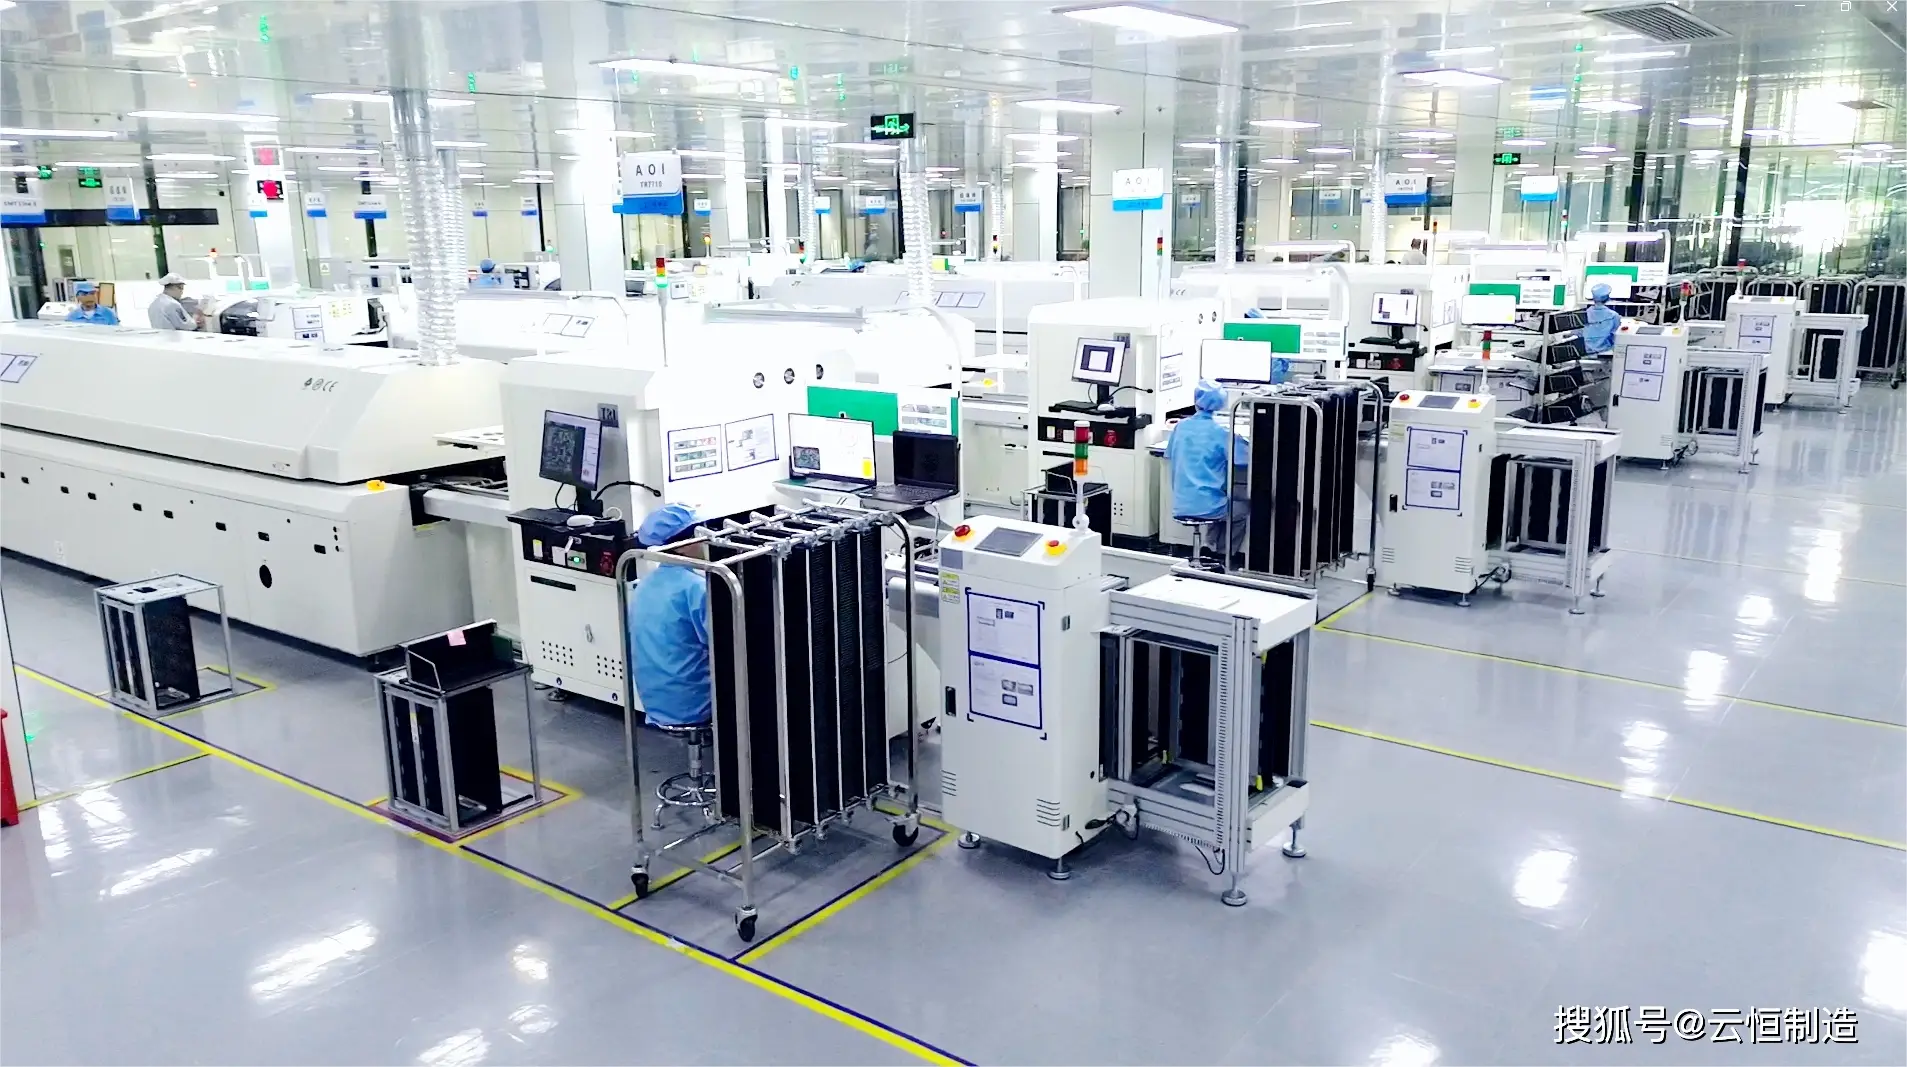
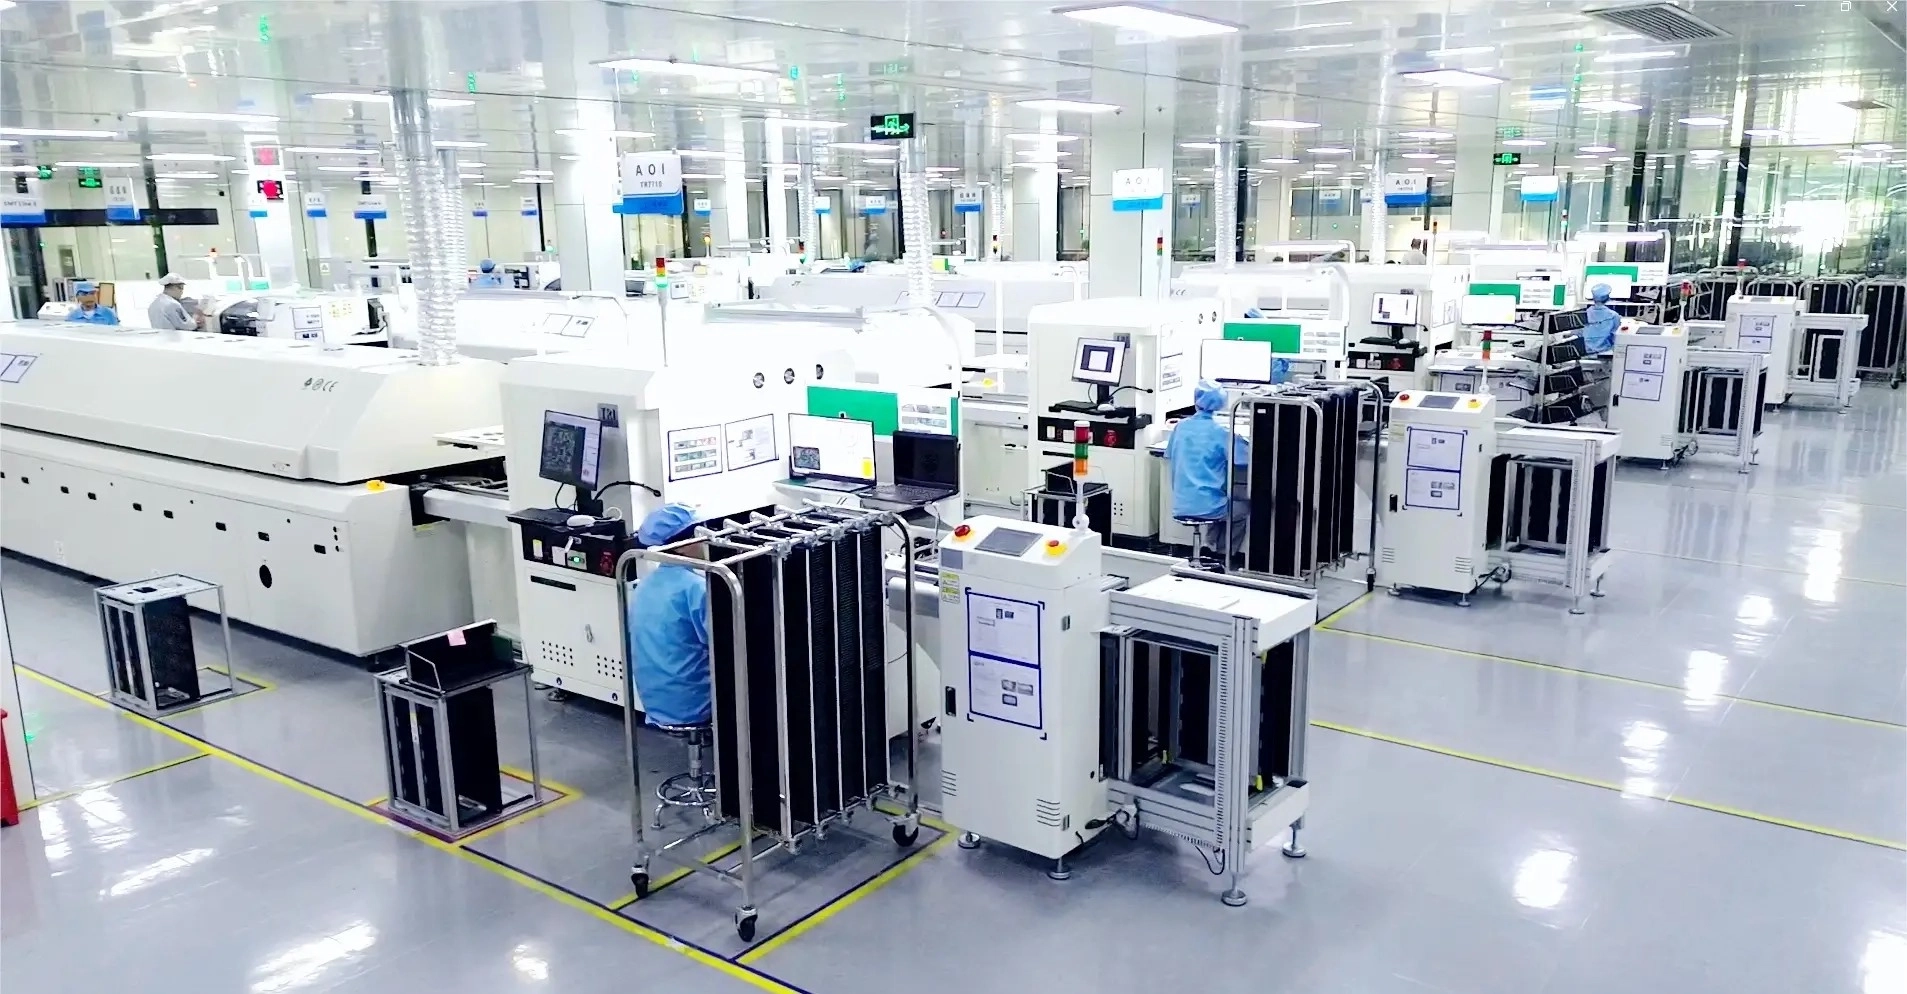
Webp

diff --git a/public/index.html b/public/index.html
@@ -324,7 +324,7 @@
         <div class="row gy-3">
 
           <div class="col-lg-6" data-aos="fade-up" data-aos-delay="100">
-            <img src="assets/img/background//SMT.png" alt="" class="img-fluid" loading="lazy">
+            <img src="assets/img/background//SMT.webp" alt="" class="img-fluid" loading="lazy">
           </div>
 
           <div class="col-lg-6 d-flex flex-column justify-content-center" data-aos="fade-up" data-aos-delay="200">
@@ -553,12 +553,12 @@
 
             <!-- Start Telco & Smart Items -->
             <div class="col-lg-6 col-md-12 portfolio-item isotope-item filter-app">
-              <img src="assets\img\portfolio\Agritech\LAZINET-Smart-Agriculture.png" class="img-fluid"
+              <img src="assets\img\portfolio\Agritech\LAZINET-Smart-Agriculture.webp" class="img-fluid"
                 alt="LAZINET Smart Agriculture" loading="lazy">
               <div class="portfolio-info">
                 <h4>LAZINET Smart Agriculture Systems</h4>
                 <p>Hệ thống nông nghiệp thông minh LAZINET</p>
-                <a href="assets\img\portfolio\Agritech\LAZINET-Smart-Agriculture.png"
+                <a href="assets\img\portfolio\Agritech\LAZINET-Smart-Agriculture.webp"
                   title="LAZINET Smart Agriculture System" data-gallery="portfolio-gallery-app"
                   class="glightbox preview-link"><i class="bi bi-zoom-in"></i></a>
                 <a href="#" title="More Details" class="details-link"><i class="bi bi-link-45deg"></i></a>
@@ -566,12 +566,12 @@
             </div>
 
             <div class="col-lg-6 col-md-12 portfolio-item isotope-item filter-app">
-              <img src="assets\img\portfolio\Agritech\LAZINET-Smart-Aquaculture.png" class="img-fluid"
+              <img src="assets\img\portfolio\Agritech\LAZINET-Smart-Aquaculture.webp" class="img-fluid"
                 alt="LAZINET Smart Aquaculture" loading="lazy">
               <div class="portfolio-info">
                 <h4>LAZINET Smart Agriculture Systems</h4>
                 <p>Hệ thống nuôi trồng thủy sản thông minh LAZINET</p>
-                <a href="assets\img\portfolio\Agritech\LAZINET-Smart-Aquaculture.png"
+                <a href="assets\img\portfolio\Agritech\LAZINET-Smart-Aquaculture.webp"
                   title="LAZINET Smart Aquaculture System" data-gallery="portfolio-gallery-app"
                   class="glightbox preview-link"><i class="bi bi-zoom-in"></i></a>
                 <a href="#" title="More Details" class="details-link"><i class="bi bi-link-45deg"></i></a>
@@ -579,12 +579,12 @@
             </div>
 
             <div class="col-lg-6 col-md-12 portfolio-item isotope-item filter-app">
-              <img src="assets\img\portfolio\WDM\uNMS.png" class="img-fluid" alt="Network Management System"
+              <img src="assets\img\portfolio\WDM\uNMS.webp" class="img-fluid" alt="Network Management System"
                 loading="lazy">
               <div class="portfolio-info">
                 <h4>LAZINET Network Management System</h4>
                 <p>Hệ thống quản lý mạng truyền dẫn quang LAZINET</p>
-                <a href="assets\img\portfolio\WDM\uNMS.png"
+                <a href="assets\img\portfolio\WDM\uNMS.webp"
                   title="Hệ thống quản lý mạng truyền dẫn quang LAZINET đi kèm cùng sản phẩm 5G Fronthaul Semi-Active WDM là phần mềm quản lý mạng được tùy biến hóa ở mức sâu, giúp trực quan hóa trên bản đồ, tự động hóa theo dõi sự cố, giám sát mạng 247 trên đa nền tảng và tối ưu vận hành trên cơ sở kết hợp các kỹ thuật phân tích dữ liệu, AI và GIS."
                   data-gallery="portfolio-gallery-product" class="glightbox preview-link"><i
                     class="bi bi-zoom-in"></i></a>
@@ -593,12 +593,12 @@
             </div>
 
             <div class="col-lg-6 col-md-12 portfolio-item isotope-item filter-app">
-              <img src="assets\img\portfolio\WDM\LAZINET-NetworkDesign.png" class="img-fluid"
+              <img src="assets\img\portfolio\WDM\LAZINET-NetworkDesign.webp" class="img-fluid"
                 alt="Network Management System" loading="lazy">
               <div class="portfolio-info">
                 <h4>LAZINET 5G/ Wi-Fi TX Network Planning & Design Professional Software</h4>
                 <p>Phần mềm chuyên dụng quy hoạch và thiết kế mạng 5G/ Wi-Fi LAZINET</p>
-                <a href="assets\img\portfolio\WDM\LAZINET-NetworkDesign.png"
+                <a href="assets\img\portfolio\WDM\LAZINET-NetworkDesign.webp"
                   title="Chúng tôi chuyên cung cấp phần mềm, công cụ, dụng cụ, thiết bị chuyên dụng cho việc quy hoạch và thiết kế mạng phủ sóng vô tuyến thế hệ mới và truyền dẫn tốc độ siêu cao."
                   data-gallery="portfolio-gallery-product" class="glightbox preview-link"><i
                     class="bi bi-zoom-in"></i></a>
@@ -607,12 +607,12 @@
             </div>
 
             <div class="col-12 portfolio-item isotope-item filter-app">
-              <img src="assets\img\portfolio\WDM\5G-Fronthaul-Semi-Active-WDM-Solution.jpg" class="img-fluid"
+              <img src="assets\img\portfolio\WDM\5G-Fronthaul-Semi-Active-WDM-Solution.webp" class="img-fluid"
                 alt="5G Fronthaul WDM" loading="lazy">
               <div class="portfolio-info">
                 <h4>5G Fronthaul Semi-Active WDM Solution</h4>
                 <p>Giải pháp truyền dẫn quang 5G loại Fronthaul Semi-Active WDM</p>
-                <a href="assets\img\portfolio\WDM\5G-Fronthaul-Semi-Active-WDM-Solution.jpg"
+                <a href="assets\img\portfolio\WDM\5G-Fronthaul-Semi-Active-WDM-Solution.webp"
                   title="5G commercial, bearer first. With the rapid deployment of 5G, the demand for fronthaul networks is growing. The C-RAN architecture, with centralized DU and multiple AAUs connected via fronthaul, dominates. Solutions like optical fiber, passive WDM, and active OTN face issues such as high fiber usage, lack of control, and cost. Sintai Communication introduces a semi-active 5G fronthaul solution, enhancing network reliability, manageability, and maintenance."
                   data-gallery="portfolio-gallery-product" class="glightbox preview-link"><i
                     class="bi bi-zoom-in"></i></a>
@@ -622,12 +622,12 @@
 
             <!-- Start Customized Software -->
             <div class="col-12 portfolio-item isotope-item filter-product">
-              <img src="assets\img\portfolio\Software\eCommerce1.png" class="img-fluid" alt="Network Management System"
+              <img src="assets\img\portfolio\Software\eCommerce1.webp" class="img-fluid" alt="Network Management System"
                 loading="lazy">
               <div class="portfolio-info">
                 <h4>Customized e-Commerce Software Systems</h4>
                 <p>Hệ thống phần mềm và các phần tử công nghệ của hệ sinh thái Thương mại Điện tử</p>
-                <a href="assets\img\portfolio\Software\eCommerce2.png"
+                <a href="assets\img\portfolio\Software\eCommerce2.webp"
                   title="LAZINET phát triển, triển khai, vận hành và tối ưu hệ thống phần mềm sàn thương mại điện tử tùy chỉnh cho các doanh nghiệp hoạt động trong các lĩnh vực khác nhau. Chúng tôi cung cấp đầy đủ các dịch vụ và tiện ích quản lý kho hàng, đơn hàng, giao vận, thanh toán, hóa đơn, nộp thuế, phân tích và tối ưu doanh thu."
                   data-gallery="portfolio-gallery-product" class="glightbox preview-link"><i
                     class="bi bi-zoom-in"></i></a>
@@ -749,7 +749,7 @@
           <div class="col-lg-3 col-md-6 d-flex align-items-stretch" data-aos="fade-up" data-aos-delay="100">
             <div class="team-member">
               <div class="member-img">
-                <img src="assets/img/team/Phung-Hoang.png" class="img-fluid" alt="" loading="lazy">
+                <img src="assets/img/team/Phung-Hoang.webp" class="img-fluid" alt="" loading="lazy">
                 <div class="social">
                   <!-- <a href=""><i class="bi bi-twitter-x"></i></a> -->
                   <a href="bizcards/phung-hoang.html" target="_blank"><i class="bi-person-vcard"></i></a>
@@ -789,7 +789,7 @@
           <div class="col-lg-3 col-md-6 d-flex align-items-stretch" data-aos="fade-up" data-aos-delay="200">
             <div class="team-member">
               <div class="member-img">
-                <img src="assets/img/team/Istehsan-Abbas-AI.png" class="img-fluid" alt="" loading="lazy">
+                <img src="assets/img/team/Istehsan-Abbas-AI.webp" class="img-fluid" alt="" loading="lazy">
                 <div class="social">
                   <!-- <a href=""><i class="bi bi-twitter-x"></i></a> -->
                   <a href="https://www.facebook.com/profile.php?id=61567050494124" target="_blank"><i
@@ -849,7 +849,7 @@
           <div class="col-lg-3 col-md-6 d-flex align-items-stretch" data-aos="fade-up" data-aos-delay="100">
             <div class="team-member">
               <div class="member-img">
-                <img src="assets/img/team/Thang-Nguyen.png" class="img-fluid" alt="" loading="lazy">
+                <img src="assets/img/team/Thang-Nguyen.webp" class="img-fluid" alt="" loading="lazy">
                 <div class="social">
                   <!-- <a href=""><i class="bi bi-twitter-x"></i></a> -->
                   <a href="bizcards/thang-nguyen.html" target="_blank"><i class="bi-person-vcard"></i></a>
@@ -870,7 +870,7 @@
           <div class="col-lg-3 col-md-6 d-flex align-items-stretch" data-aos="fade-up" data-aos-delay="100">
             <div class="team-member">
               <div class="member-img">
-                <img src="assets/img/team/Vinh-Le.png" class="img-fluid" alt="" loading="lazy">
+                <img src="assets/img/team/Vinh-Le.webp" class="img-fluid" alt="" loading="lazy">
                 <div class="social">
                   <!-- <a href=""><i class="bi bi-twitter-x"></i></a> -->
                   <a href="bizcards/vinh-le.html" target="_blank"><i class="bi-person-vcard"></i></a>
@@ -929,7 +929,7 @@
           <div class="col-lg-3 col-md-6 d-flex align-items-stretch" data-aos="fade-up" data-aos-delay="100">
             <div class="team-member">
               <div class="member-img">
-                <img src="assets/img/team/Khoa-Vu.png" class="img-fluid" alt="" loading="lazy">
+                <img src="assets/img/team/Khoa-Vu.webp" class="img-fluid" alt="" loading="lazy">
                 <div class="social">
                   <!-- <a href=""><i class="bi bi-twitter-x"></i></a> -->
                   <a href="bizcards/khoa-vu.html" target="_blank"><i class="bi-person-vcard"></i></a>
@@ -1017,7 +1017,7 @@
 
             <div class="swiper-slide">
               <div class="testimonial-item">
-                <img src="assets/img/testimonials/Hien-Ta.png" class="testimonial-img" alt="" loading="lazy">
+                <img src="assets/img/testimonials/Hien-Ta.webp" class="testimonial-img" alt="" loading="lazy">
                 <h3 class="notranslate">PhD. Hiển Tạ (Iowa State University)</h3>
                 <h4>School of Electrical Engineering | International University, HCMC, Vietnam.</h4>
                 <div class="stars">
